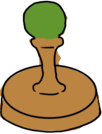
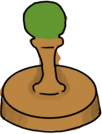
Mecanica de pedida de color sellador y arreglos endWorkScene

diff --git a/FuMonoStudios/Game/src/components/Herramientas.cpp b/FuMonoStudios/Game/src/components/Herramientas.cpp
@@ -2,6 +2,7 @@
 #include <components/Transform.h>
 #include <components/MoverTransform.h>
 #include <sistemas/SoundEmiter.h>
+#include <components/Render.h>
 
 Herramientas::Herramientas() {
 	multicolorStamp = false;
@@ -22,6 +23,9 @@ void Herramientas::setFunctionality(TipoHerramienta tipo) {
 			SoundEmiter::instance()->playSound("stamp");
 			ent_->addComponent<MoverTransform>(Vector2D(230, 800), 0.5, EaseOutBack);
 			ent_->getComponent<MoverTransform>()->enable();
+			auto stampRender = ent_->getComponent<RenderImage>();
+			stampRender->setTexture(&sdlutils().images().at("sellador"));
+			setFunctionality(SelloVacio);
 			};
 		break;
 	case SelloCalleB:
@@ -31,6 +35,9 @@ void Herramientas::setFunctionality(TipoHerramienta tipo) {
 			SoundEmiter::instance()->playSound("stamp");
 			ent_->addComponent<MoverTransform>(Vector2D(230, 800), 0.5, EaseOutBack);
 			ent_->getComponent<MoverTransform>()->enable();
+			auto stampRender = ent_->getComponent<RenderImage>();
+			stampRender->setTexture(&sdlutils().images().at("sellador"));
+			setFunctionality(SelloVacio);
 			};
 		break;
 	case SelloCalleC:
@@ -40,6 +47,9 @@ void Herramientas::setFunctionality(TipoHerramienta tipo) {
 			SoundEmiter::instance()->playSound("stamp");
 			ent_->addComponent<MoverTransform>(Vector2D(230, 800), 0.5, EaseOutBack);
 			ent_->getComponent<MoverTransform>()->enable();
+			auto stampRender = ent_->getComponent<RenderImage>();
+			stampRender->setTexture(&sdlutils().images().at("sellador"));
+			setFunctionality(SelloVacio);
 			};
 		break;
 	case SelloMultiColor:
@@ -51,6 +61,14 @@ void Herramientas::setFunctionality(TipoHerramienta tipo) {
 			ent_->addComponent<MoverTransform>(Vector2D(230, 800), 0.5, EaseOutBack);
 			ent_->getComponent<MoverTransform>()->enable();
 			};
+		break;
+
+	case SelloVacio:
+
+		funcion_ = [this](ecs::Entity* paq) {
+			ent_->addComponent<MoverTransform>(Vector2D(230, 800), 0.5, EaseOutBack);
+			ent_->getComponent<MoverTransform>()->enable();
+		};
 		break;
 	
 	}

diff --git a/FuMonoStudios/Game/src/scenes/EndWorkScene.cpp b/FuMonoStudios/Game/src/scenes/EndWorkScene.cpp
@@ -110,10 +110,22 @@ void EndWorkScene::createButtons()
 	// Comprobamos si el usuario ha perdido o sigue con dinero
 	int money = gD().getMoney();
 
+	auto textColor = build_sdlcolor(0xff0000ff);
+
 	if (money > 0) {
 		// Boton nuevo dia
-		auto call = []() {gm().requestChangeScene(ecs::sc::END_WORK_SCENE, ecs::sc::END_SCENE); };
-		factory_->createTextuButton(pos_ + Vector2D(0, offset_), "Nuevo dia", 50, call, "click");
+
+		
+		
+		auto call = []() {
+			if (gD().getDay() == 14) {
+			gm().requestChangeScene(ecs::sc::END_WORK_SCENE, ecs::sc::END_SCENE);
+			} 
+			else {
+				gm().requestChangeScene(ecs::sc::END_WORK_SCENE, ecs::sc::EXPLORE_SCENE);
+			}
+		};
+		auto nuevoDia = factory_->createTextuButton(pos_ + Vector2D(0, offset_), "Empezar nuevo dia", 50, call, "click", textColor);
 
 		// Sonido
 		sdlutils().soundEffects().at("MoneyProfits").play();
@@ -124,7 +136,8 @@ void EndWorkScene::createButtons()
 	{
 		// Boton nueva partida
 		auto call = []() {gm().requestChangeScene(ecs::sc::END_WORK_SCENE, ecs::sc::MENU_SCENE); };
-		factory_->createTextuButton(pos_ + Vector2D(0, offset_), "Volver al Menu", 50, call, "click");
+		auto volver = factory_->createTextuButton(pos_ + Vector2D(0, offset_), "Volver al Menu", 50, call, "click", textColor);
+
 		// Sonido
 		sdlutils().soundEffects().at("LoseMoney").play();
 		// Texto

diff --git a/FuMonoStudios/Game/src/scenes/MainMenu.cpp b/FuMonoStudios/Game/src/scenes/MainMenu.cpp
@@ -50,13 +50,6 @@ void ecs::MainMenu::init()
 
 	auto textColor = build_sdlcolor(0xffffffff);
 	factory_->setLayer(layer::UI);
-	//auto tuto = factory_->createTextuButton(Vector2D(LOGICAL_RENDER_WIDTH- 700, 400), "Tutorial", 50, [this]() {
-	//	sdlutils().musics().at("mainMenu").haltMusic();
-	//	gm().requestChangeScene(ecs::sc::MENU_SCENE, ecs::sc::TUTORIAL_SCENE);
-	//	},textColor);
-	//factory_->addHilghtOnHover(tuto);
-	//factory_->addHoverColorMod(tuto);
-
 
 	auto start = factory_->createTextuButton(Vector2D(LOGICAL_RENDER_WIDTH - 700, 400), "Nueva partida", 50, [this]() {
 		sdlutils().musics().at("mainMenu").haltMusic();

diff --git a/FuMonoStudios/Game/src/architecture/GameConstants.h b/FuMonoStudios/Game/src/architecture/GameConstants.h
@@ -23,7 +23,7 @@ constexpr int INITIAL_DAY = 1;
 constexpr int INITIAL_TUBE_AMOUNT = 1;
 constexpr int WRITE_PACAGES_VALUE = 20;
 constexpr int WRONG_PACAGES_VALUE = 30;
-constexpr int MINIGAME_TIME = 180;
+constexpr int MINIGAME_TIME = 10;
 constexpr int INITIAL_FAILS_MARGIN = 1;
 constexpr int LOGICAL_RENDER_WIDTH = 1920;
 constexpr int LOGICAL_RENDER_HEITH = 1080;

diff --git a/FuMonoStudios/Game/src/components/Herramientas.h b/FuMonoStudios/Game/src/components/Herramientas.h
@@ -7,7 +7,7 @@
 using Callback = std::function<void(ecs::Entity*)>;
 
 enum TipoHerramienta {
-	SelloCalleA, SelloCalleB, SelloCalleC, SelloMultiColor
+	SelloCalleA, SelloCalleB, SelloCalleC, SelloMultiColor, SelloVacio
 };
 
 // Para usar esta clase, hay que asignarla al entity y luego
